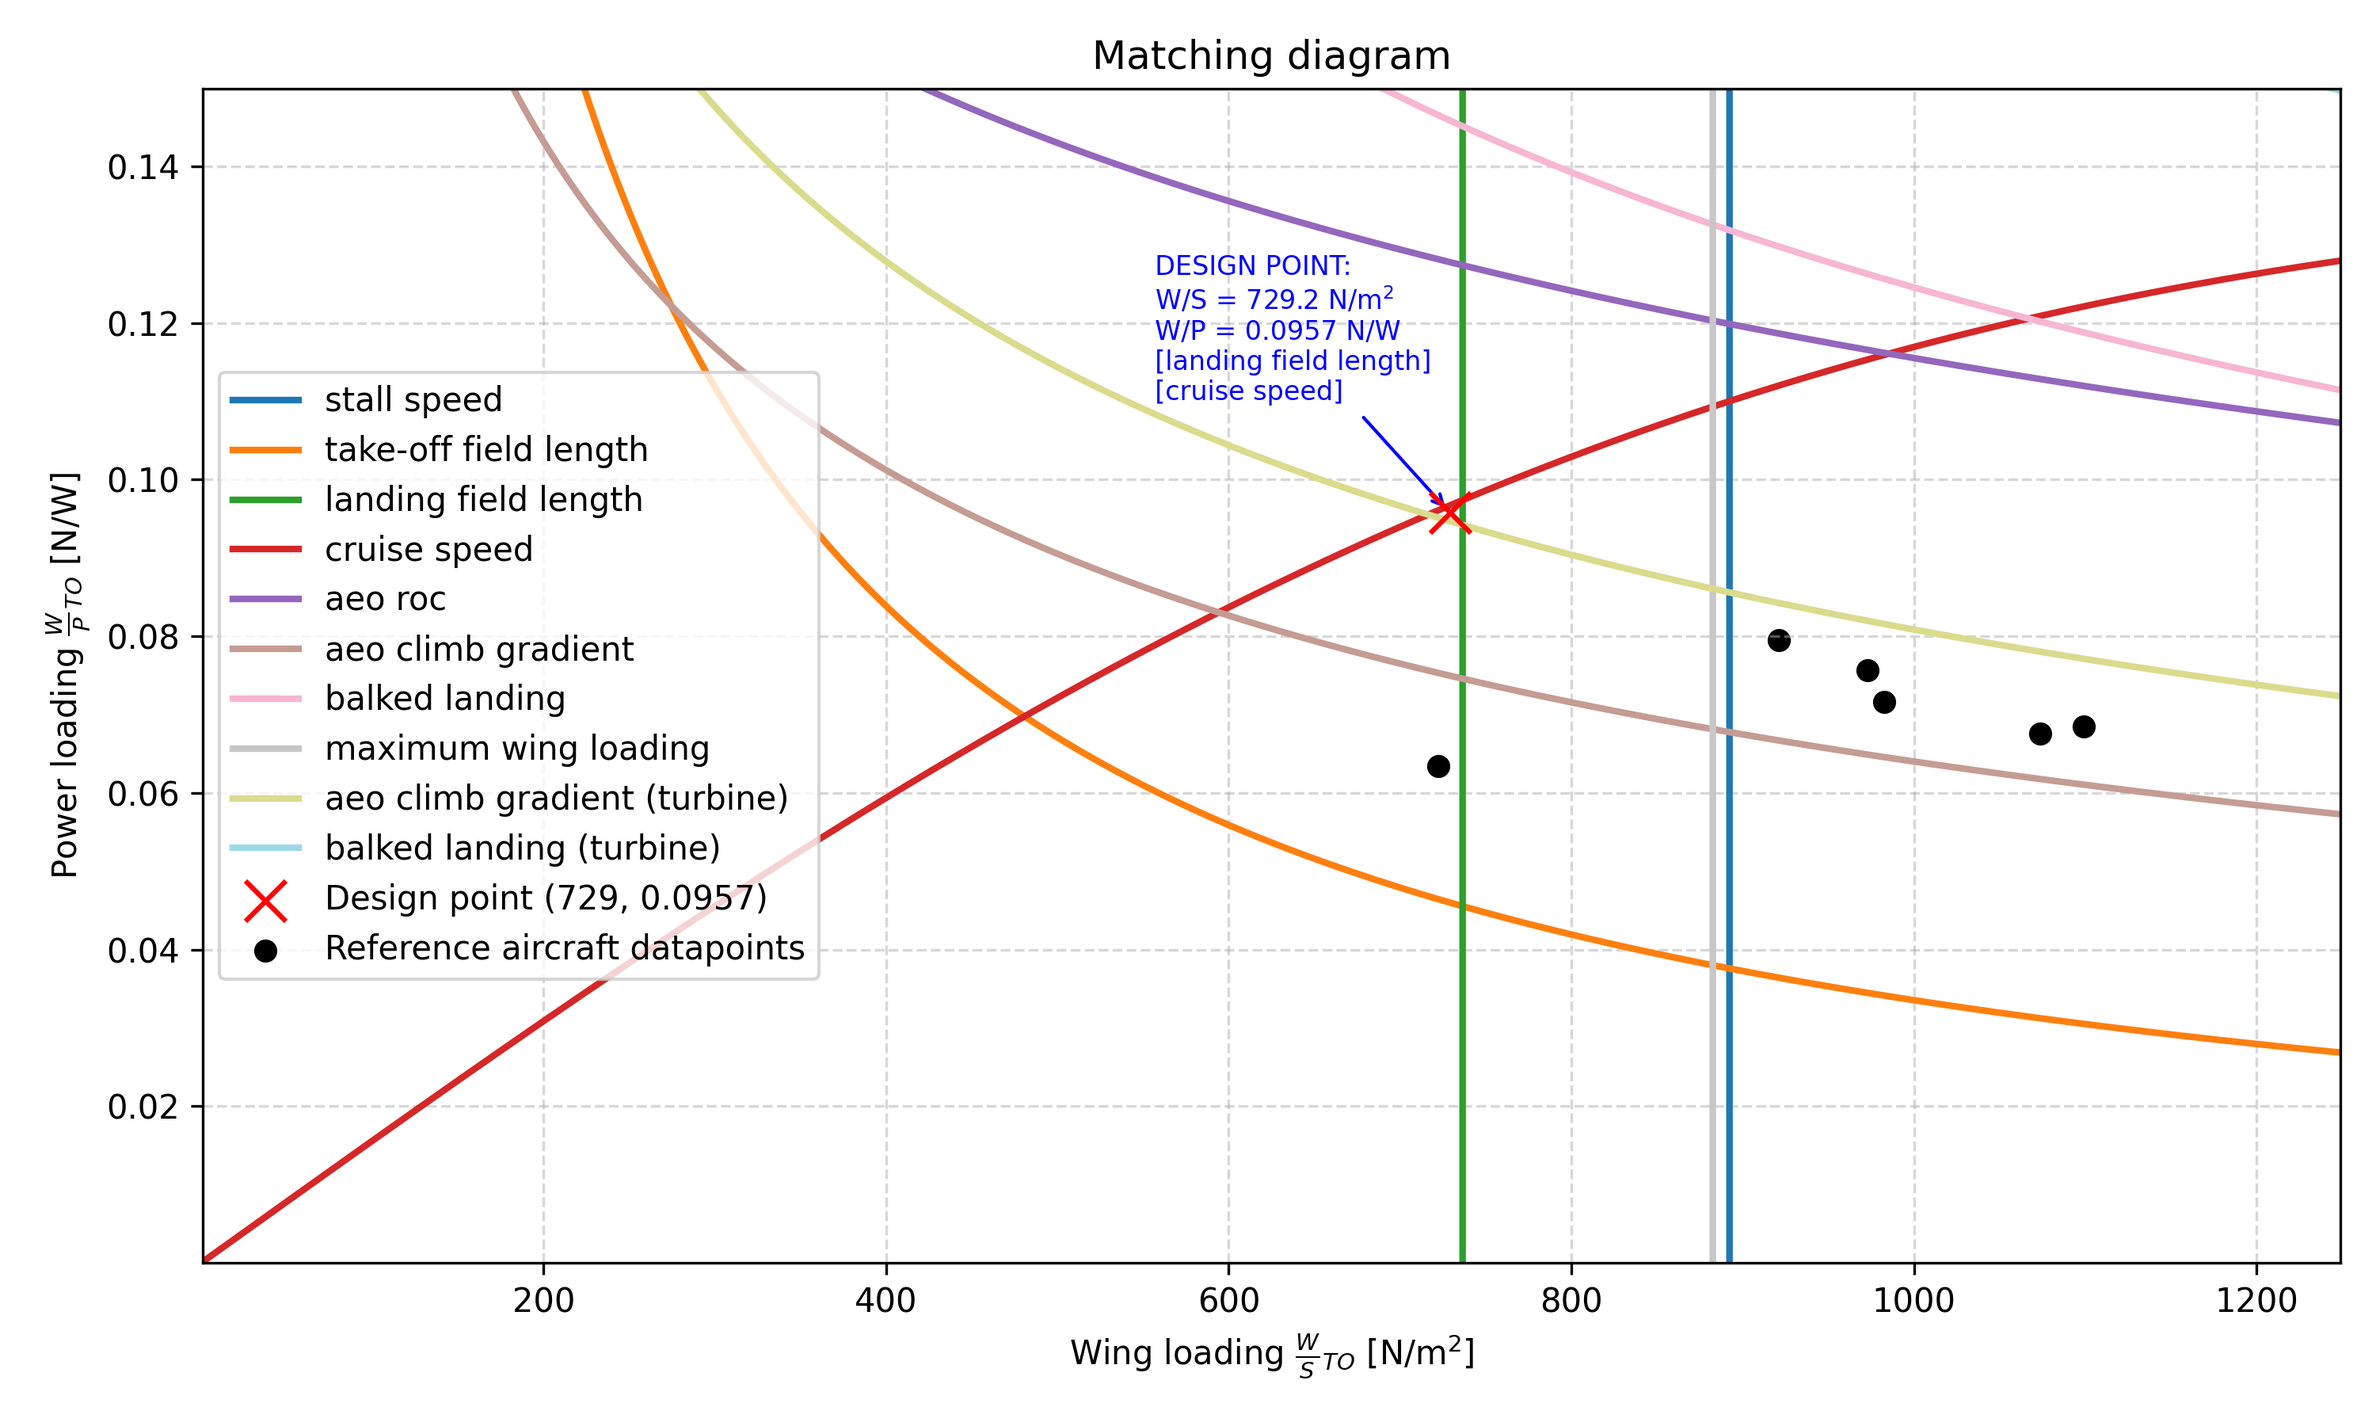
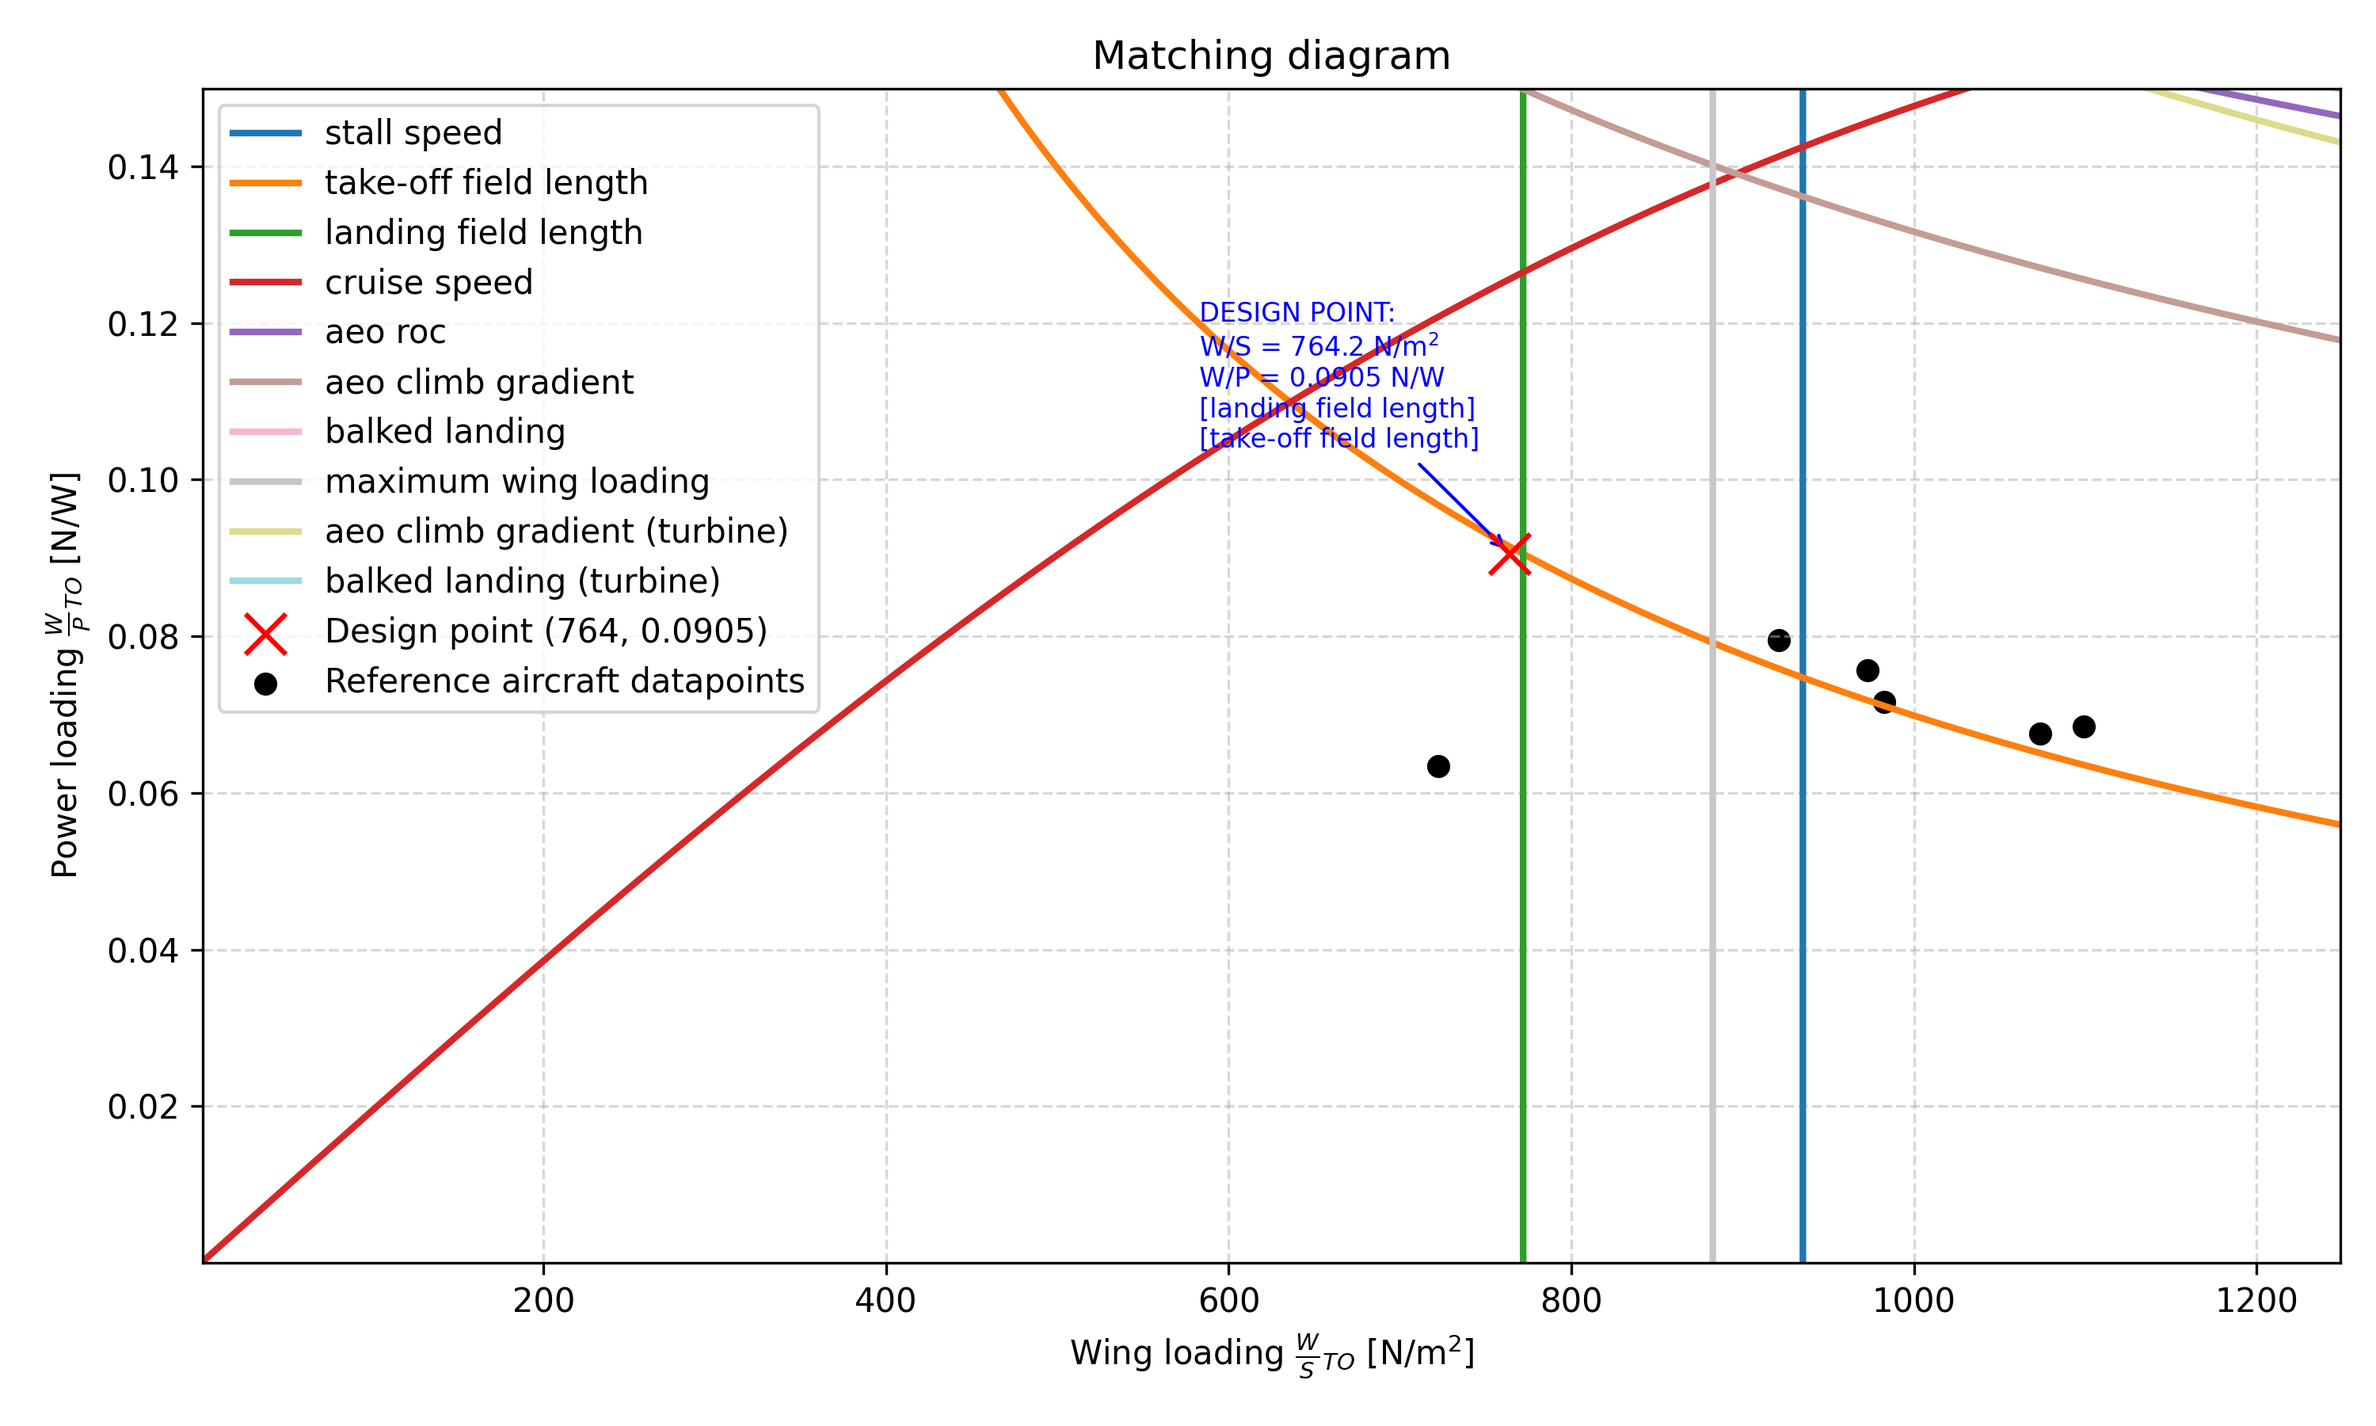
class II drag

diff --git a/class1/c2_drag.py b/class1/c2_drag.py
@@ -1,5 +1,5 @@
 from classes.aircraft_2 import Aircraft
-from c2_m import Snet, LE_sweep_deg, sweep_at_x_c_deg, lift_slope
+from c2_m import Snet, LE_sweep_deg, sweep_at_x_c_deg, lift_slope, S_wf
 from lookups.consts import *
 import pandas as pd
 import numpy as np
@@ -15,8 +15,43 @@ def exposed_wing_mgc(S, b, taper, c_r, b_f):
     S_net = Snet(S, b_f, taper, b, c_r)
     return S_net / (b - b_f)
 
+def CD0_w(R_wf, R_LS, C_f_w, l_dash, t_c_max, S_wet_w, S):
+    return R_wf * R_LS * C_f_w * (1 + l_dash * t_c_max + 100 * t_c_max**4) * S_wet_w / S
+
+def CD0_fuselage(density, speed, l_f, mu, S_fus, # max fuselage cross section area
+                 S_b_fus, S):
+    R_N_fus = density * speed * l_f / mu
+    R_wf = 
+    C_f_fus = 
+    d_b = np.sqrt(4 * S_b_fus / np.pi)
+    d_f_eq = np.sqrt(4 * S_fus / np.pi)
+    S_wet_fus =  # NOTE: add method
+    C_D0_b_fus = R_wf * C_f_fus * (1 + 60 / (l_f / d_f_eq)**3 + 0.0025 * (l_f / d_f_eq)) * S_wet_fus / S
+    C_D_b_fuse = (0.029 * (d_b / d_f_eq)**3 / (C_D0_b_fus * (S / S_fus))**0.5) * (S / S_fus)
+    return C_D0_b_fus + C_D_b_fuse
+
+def S_wet_wing(t_c_r, t_c_t, S, b_f, taper, b, c_r):
+    tau = t_c_t / t_c_r
+    return 2 * Snet(S, b_f, taper, b, c_r) * (1 + 0.25 * t_c_r * (1 + tau * taper) / (1 + taper))
+
+def flap_interference_factor(flap_type: str, # 'split' or 'plain' or 'slotted' 'fowler' or 'krueger'
+                             ):
+    if flap_type == 'split':
+        return -0.15
+    elif flap_type == 'plain':
+        return 0
+    elif flap_type == 'slotted':
+        return 0.4
+    elif flap_type == 'fowler':
+        return 0.25
+    else:
+        return 0.1
+
 def C_D0(ac: Aircraft, 
-         flight_condition: str = 'cruise' # 'cruise' or 'landing' or 'take-off'
+         n_engine_operative: int,
+         flap_type: str, # 'split' or 'plain' or 'slotted' 'fowler' or 'krueger'
+         flight_condition: str = 'cruise', # 'cruise' or 'landing' or 'take-off'
+         nacelle_on_top_of_wing: bool = True, 
          ):
     if flight_condition == 'cruise':
         temp_shift = 0
@@ -42,37 +77,134 @@ def C_D0(ac: Aircraft,
     R_wf = 
     R_LS = 
     C_f_w = 
-    l_dash = 
+    l_dash = 1.2
     t_c_max =  # at mean geometric chord
     x_c_t_c_max = 
+    if x_c_t_c_max < 0.3:
+        l_dash = 2.0
     t_c_r = 
     t_c_t = 
-    tau = t_c_t / t_c_r
     sweep_t_c_max_deg = sweep_at_x_c_deg(LE_sweep_deg(sweep_c_4_deg, c_r, b, taper), c_r, b, taper, x_c=x_c_t_c_max)
-    S_wet_w = 2 * Snet(S, b_f, taper, b, c_r) * (1 + 0.25 * t_c_r * (1 + tau * taper) / (1 + taper))
     S = ac.wing.area
 
-    wing = R_wf * R_LS * C_f_w * (1 + l_dash * t_c_max + 100 * t_c_max**4) * S_wet_w / S
+    wing = CD0_w(R_wf, R_LS, C_f_w, l_dash, t_c_max, S_wet_wing(t_c_r, t_c_t, S, b_f, taper, b, c_r), S)  # R_wf * R_LS * C_f_w * (1 + l_dash * t_c_max + 100 * t_c_max**4) * S_wet_w / S
 
     # Fuselage
+    S_fus =  # max fuselage cross section area
+    S_b_fus = 
+    fuselage = CD0_fuselage(density, speed, l_f, mu, S_fus, S_b_fus, S)
 
-    # Empennage
+    # HT
+    t_tail_condition: bool =  # t-tail or not
+    ht_sweep_c_4_deg = 
+    c_r_ht = 
+    taper_ht = 
+    b_ht = 
+    S_ht = 
+    S_wet_ht = 
+    ht_t_c_max = 
+    ht_x_c_t_c_max = 
+    ht_sweep_t_c_max_deg = sweep_at_x_c_deg(LE_sweep_deg(ht_sweep_c_4_deg, c_r_ht, b_ht, taper_ht), c_r_ht, b_ht, taper_ht, x_c=ht_x_c_t_c_max)
+    R_LS_ht = 
+    b_f_ht =  # fuselage width at ht intersection position
+    R_N_ht = density * speed * exposed_wing_mgc(S_ht, b_ht, taper_ht, c_r_ht, b_f_ht) / mu
+    if not t_tail_condition:
+        R_N_ht *= np.sqrt(0.85)
+    C_f_ht = 
+    l_dash_ht = 1.2
+    if ht_x_c_t_c_max < 0.3:
+        l_dash_ht = 2.0
+    t_c_r_ht = 
+    t_c_t_ht = 
+    ht = CD0_w(R_wf=1.0, R_LS=R_LS_ht, C_f_w=C_f_ht, l_dash=l_dash_ht, t_c_max=ht_t_c_max, S_wet_w=S_wet_wing(t_c_r_ht, t_c_t_ht, S_ht, b_f_ht, taper_ht, b_ht, c_r_ht), S=S_ht)
+
+    # VT
+    vt_sweep_c_4_deg = 
+    c_r_vt = 
+    taper_vt = 
+    b_vt = 
+    S_vt = 
+    vt_t_c_max = 
+    vt_x_c_t_c_max = 
+    vt_sweep_t_c_max_deg = sweep_at_x_c_deg(LE_sweep_deg(vt_sweep_c_4_deg, c_r_vt, b_vt, taper_vt), c_r_vt, b_vt, taper_vt, x_c=vt_x_c_t_c_max)
+    R_LS_vt = 
+    b_f_vt =  # fuselage width at vt intersection position
+    R_N_vt = density * speed * exposed_wing_mgc(S_vt, b_vt, taper_vt, c_r_vt, b_f_vt) / mu
+    C_f_vt = 
+    l_dash_vt = 1.2
+    if vt_x_c_t_c_max < 0.3:
+        l_dash_vt = 2.0
+    t_c_r_vt = 
+    t_c_t_vt = 
+    vt = CD0_w(R_wf=1.0, R_LS=R_LS_vt, C_f_w=C_f_vt, l_dash=l_dash_vt, t_c_max=vt_t_c_max, S_wet_w=S_wet_wing(t_c_r_vt, t_c_t_vt, S_vt, b_f_vt, taper_vt, b_vt, c_r_vt), S=S_vt)
 
     # Nacelle/pylon
+    n_eng = ac.engine.count
+    l_nac =  # nacelle length
+    S_nac_max =  # max nacelle cross section area
+    S_b_nac =  # nacelle base area
+    isolated_nac = CD0_fuselage(density, speed, l_nac, mu, S_nac_max, S_b_nac, S)
 
-    # Flap
+    c_r_nac = 
+    b_nac = 
+    nac_t_c_max = 
+    nac_x_c_t_c_max = 
+    nac_sweep_t_c_max_deg = sweep_at_x_c_deg(LE_sweep_deg(sweep_c_4=0, c_r=c_r_nac, b=b_nac, taper_ratio=0), c_r_nac, b_nac, taper_ratio=0, x_c=nac_x_c_t_c_max)
+    R_LS_nac = 
+    R_N_nac = density * speed * c_r_nac / mu
+    C_f_nac = 
+    l_dash_nac = 1.2
+    if nac_x_c_t_c_max < 0.3:
+        l_dash_nac = 2.0
+    isolated_pylon = CD0_w(R_wf=1.0, R_LS=R_LS_nac, C_f_w=C_f_nac, l_dash=l_dash_nac, t_c_max=nac_t_c_max, S_wet_w=S_wet_wing(nac_t_c_max, nac_t_c_max, S=b_nac*c_r_nac, b_f=t_c_max*(c_r + taper*c_r)/2, taper=0, b=b_nac, c_r=c_r_nac))
+
+    b_nac =  # nacelle width
+    c_nac =  # chord at nacelle 
+    i_n =  # nacelle incidence angle [deg]
+    D_cl_1 = -0.3
+    if nacelle_on_top_of_wing:
+        D_cl_1 = 0.2
+    D_cl_2 = 0.056 * i_n
+    wing_nac_interference = 0.036 * (c_nac * b_nac / S) * (D_cl_1 + D_cl_2)**2
+
+    SHP =  # shaft horse power
+    D_prop =  # propeller diameter
+    wind_milling = 33 / (0.5 * density * speed**2 * PA_TO_LBSpFT2 * S) * SHP / (speed * MpS_TO_FpS)
+    if n_engine_operative != n_eng:
+        wind_milling_inoperative = 0.00125 * ac.engine.eta_prop * D_prop**2 / S
+    propulsion = n_eng * (wind_milling + wing_nac_interference + isolated_pylon + isolated_nac) + (n_eng - n_engine_operative) * wind_milling_inoperative
+    
+    # Flap:
+    if flight_condition != 'cruise':
+        y_start_flap = 
+        y_end_flap = 
+        cf_c =  # flap chord length / chord length
+        flap_deflection =  # degrees
+        D_CD_flap_stuff =  # See eqn 4.71 Roskam VI
+        flap_profile = D_CD_flap_stuff * np.cos(np.deg2rad(sweep_c_4_deg)) * S_wf(y_start_flap, y_end_flap, taper, c_r, b) / S
+
+        b_fi_b = y_start_flap * 2 / b
+        b_fo_b = y_end_flap * 2 / b
+        K = 
+        Delta_CL_max_flapped = 
+        induced_flap = K**2 * Delta_CL_max_flapped**2 * np.cos(np.deg2rad(sweep_c_4_deg))
+
+        interference_flap = flap_profile * flap_interference_factor(flap_type)
+
+        flaps = interference_flap + flap_profile + induced_flap
+    else: 
+        flaps = 0
 
     # Landing gear
+    w_tire =  # tire width
+    d_tire =  # tire diameter
+    l_strut = 
+    w_strut = 
+    m = (w_tire * d_tire + l_strut * w_strut) / ((w_tire + w_strut) * (l_strut + 0.5 * d_tire))
+    landing_gear = ((w_tire + w_strut) * (l_strut + 0.5 * d_tire)) * 0.04955 * np.exp(5.615 * m)
 
-    # Canopy/windshield
-
-    # Store(s)
-
-    # Trim
-
-    # Interference
-
-    # Miscelaneous
+    # Miscelaneous (+5%)
+    C_D0 = (wing + fuselage + ht + vt + propulsion + flaps + landing_gear) * 1.05
 
     return C_D0
 
@@ -99,13 +231,5 @@ def C_D_L(ac:Aircraft,
     # Flap
 
     # Landing gear
-
-    # Canopy/windshield
-
-    # Store(s)
-
-    # Trim
-
-    # Interference
 
     # Miscelaneous

diff --git a/class1/matching_diagram.py b/class1/matching_diagram.py
@@ -15,7 +15,7 @@ import os
 # Fix path FIRST, before any local imports
 sys.path.insert(0, os.path.join(os.path.dirname(__file__), '..'))
 
-from classes.aircraft_2 import Aircraft, loader
+from classes.aircraft_2 import Aircraft, loader, Requirements, Mission, Fuselage, Wing, Engine, Weights
 from class1.prelim_drag import *
 import numpy as np
 import matplotlib.pyplot as plt
@@ -550,4 +550,80 @@ if __name__ == '__main__':
     target_class = Aircraft
     ac = loader.load(file_path, target_class)
 
-    plot_matching_and_select_design_point(ac,W_P_plot=np.arange(0.00000001,0.15,0.0001), W_S_plot=np.arange(1,1250), show_plot=True, requirement_to_meet='cruise')
+    ac1 = Aircraft('Boosted_piston_taildragger',
+                  loader.load('concepts/reqs_nturb.yaml', Requirements),
+                  loader.load('yamls/mission.yaml', Mission),
+                  loader.load('yamls/weights.yaml', Weights),
+                  loader.load('concepts/wing_courier.yaml', Wing),
+                  loader.load('yamls/fuselage.yaml', Fuselage),
+                  loader.load('concepts/engine_piston_b.yaml', Engine))
+    # ac2 = Aircraft('Piston_hybrid_taildragger',
+    #               loader.load('concepts/reqs_nturb.yaml', Requirements),
+    #               loader.load('yamls/mission.yaml', Mission),
+    #               loader.load('yamls/weights.yaml', Weights),
+    #               loader.load('concepts/wing_courier.yaml', Wing),
+    #               loader.load('yamls/fuselage.yaml', Fuselage),
+    #               loader.load('concepts/engine_piston_e.yaml', Engine))
+    ac3 = Aircraft('Boosted_turboprop_taildragger',
+                  loader.load('concepts/reqs_turb.yaml', Requirements),
+                  loader.load('yamls/mission.yaml', Mission),
+                  loader.load('yamls/weights.yaml', Weights),
+                  loader.load('concepts/wing_courier.yaml', Wing),
+                  loader.load('yamls/fuselage.yaml', Fuselage),
+                  loader.load('concepts/engine_tprop_b.yaml', Engine))
+    # ac4 = Aircraft('Turbine_hybrid_taildragger',
+    #               loader.load('concepts/reqs_turb.yaml', Requirements),
+    #               loader.load('yamls/mission.yaml', Mission),
+    #               loader.load('yamls/weights.yaml', Weights),
+    #               loader.load('concepts/wing_courier.yaml', Wing),
+    #               loader.load('yamls/fuselage.yaml', Fuselage),
+    #               loader.load('concepts/engine_turb_e.yaml', Engine))
+    # ac5 = Aircraft('H2_taildragger',
+    #               loader.load('concepts/reqs_nturb.yaml', Requirements),
+    #               loader.load('yamls/mission.yaml', Mission),
+    #               loader.load('yamls/weights.yaml', Weights),
+    #               loader.load('concepts/wing_courier.yaml', Wing),
+    #               loader.load('yamls/fuselage.yaml', Fuselage),
+    #               loader.load('concepts/engine_h2.yaml', Engine))
+    ac6 = Aircraft('Boosted_piston_tricycle',
+                  loader.load('concepts/reqs_nturb.yaml', Requirements),
+                  loader.load('yamls/mission.yaml', Mission),
+                  loader.load('yamls/weights.yaml', Weights),
+                  loader.load('concepts/wing_electra.yaml', Wing),
+                  loader.load('yamls/fuselage.yaml', Fuselage),
+                  loader.load('concepts/engine_piston_b.yaml', Engine))
+    # ac7 = Aircraft('Piston_hybrid_tricycle',
+    #               loader.load('concepts/reqs_nturb.yaml', Requirements),
+    #               loader.load('yamls/mission.yaml', Mission),
+    #               loader.load('yamls/weights.yaml', Weights),
+    #               loader.load('concepts/wing_electra.yaml', Wing),
+    #               loader.load('yamls/fuselage.yaml', Fuselage),
+    #               loader.load('concepts/engine_piston_e.yaml', Engine))
+    ac8 = Aircraft('Boosted_turboprop_tricycle',
+                  loader.load('concepts/reqs_turb.yaml', Requirements),
+                  loader.load('yamls/mission.yaml', Mission),
+                  loader.load('yamls/weights.yaml', Weights),
+                  loader.load('concepts/wing_electra.yaml', Wing),
+                  loader.load('yamls/fuselage.yaml', Fuselage),
+                  loader.load('concepts/engine_tprop_b.yaml', Engine))
+    # ac9 = Aircraft('Turbine_hybrid_tricycle',
+    #               loader.load('concepts/reqs_turb.yaml', Requirements),
+    #               loader.load('yamls/mission.yaml', Mission),
+    #               loader.load('yamls/weights.yaml', Weights),
+    #               loader.load('concepts/wing_electra.yaml', Wing),
+    #               loader.load('yamls/fuselage.yaml', Fuselage),
+    #               loader.load('concepts/engine_turb_e.yaml', Engine))
+    # ac10 = Aircraft('H2_tricycle',
+    #               loader.load('concepts/reqs_nturb.yaml', Requirements),
+    #               loader.load('yamls/mission.yaml', Mission),
+    #               loader.load('yamls/weights.yaml', Weights),
+    #               loader.load('concepts/wing_electra.yaml', Wing),
+    #               loader.load('yamls/fuselage.yaml', Fuselage),
+    #               loader.load('concepts/engine_h2.yaml', Engine))
+    for ac in [ac1, ac3, ac6, ac8]:
+        data_cr = plot_matching_and_select_design_point(ac,W_P_plot=np.arange(0.00000001,0.15,0.0001), W_S_plot=np.arange(1,1250), show_plot=True, requirement_to_meet='cruise')
+        data_to = plot_matching_and_select_design_point(ac,W_P_plot=np.arange(0.00000001,0.15,0.0001), W_S_plot=np.arange(1,1250), show_plot=True, requirement_to_meet='to')
+
+        print(f" \n Aircraft: {ac.name}:")
+        print(f" \n Cruise data: \n {data_cr}")
+        print(f" \n Take-off data: \n {data_to}")

diff --git a/c2_m.py b/c2_m.py
@@ -351,7 +351,7 @@ def W_feq_and_cg_from_nose(ac: Aircraft):
     x_c_rear_spar = ...
     start_flap_along_span = ...
     end_aileron_along_span = ...
-    l_fus = ...
+    l_fus = ac.fuselage.length
     l_tc = ...  # length of tailcone
     l_cabin = ...
     start_cabin = ...

diff --git a/lookups/consts.py b/lookups/consts.py
@@ -13,3 +13,4 @@ MIL_TO_KM        = 1.60934
 NMIL_TO_KM       = 1.852
 g                = 9.80665
 HP_TO_W          = 746
+MpS_TO_FpS       = 3.28084
